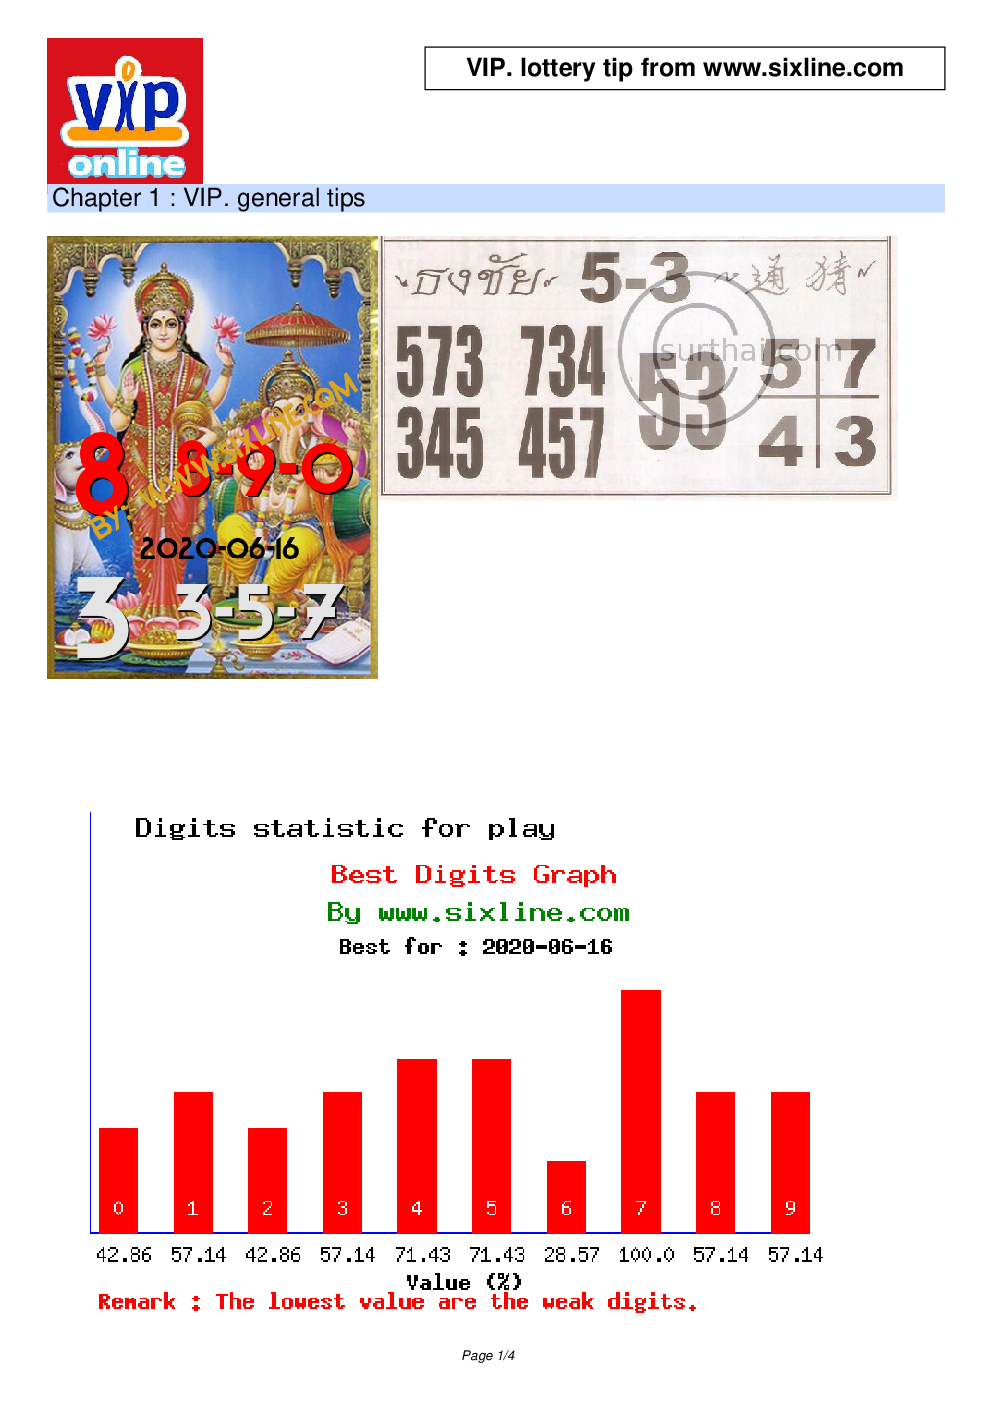
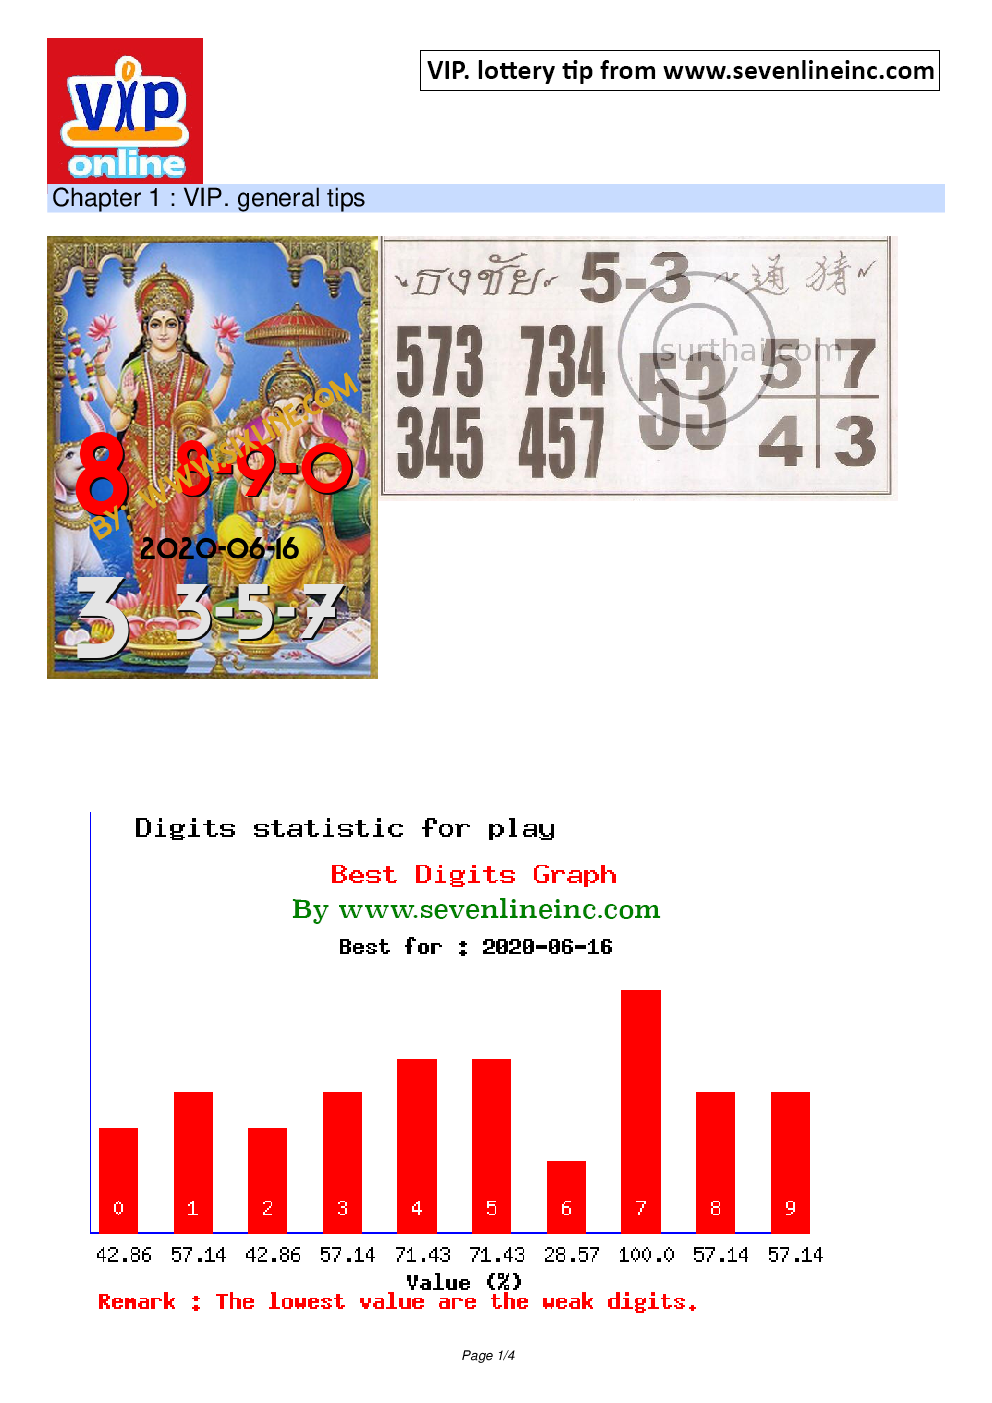
changes

Changed region(s): [[0.4062, 0.0306, 0.9688, 0.0613], [0.2812, 0.6436, 0.6562, 0.6743]]

diff --git a/templates/sevenline_main/services.html b/templates/sevenline_main/services.html
@@ -435,6 +435,11 @@
                         <td align="right" valign='top' width="10">&#160;</td>
                         <td width="564" align="left"><li class="desc_size">After 1st. register, You will get PASSWORD for Log-In on your E-mail and you will have procedure and details to be our membership step by step via responding E-mail.</td>
                         </tr>
+
+                        <tr>
+                           <td align="right" valign='top' width="10">&#160;</td>
+                           <td width="564" align="left"><li class="desc_size">Sixline and Sevenlineinc are essentially the same company, functioning under two different names but representing the same organization.</td>
+                           </tr>
                         <tr>
                            <td align="right" valign="top" width="10">&nbsp;</td>
                                        <td width="564" align="left"><li class="desc_size">Feel free to contact Sixline's staff by E-mail address: <a href="mailto:staff@sevenlineinc.com">staff@sevenlineinc.com</a> 24 Hrs.<br></li></td>

diff --git a/templates/puketsite/howtoplay.html b/templates/puketsite/howtoplay.html
@@ -28,6 +28,10 @@
                <p>
                   We aren't Banker but we are worldwide membership's represent who need to play ORIGINAL THAILAND LOTTERY.
                   Playing lotteries online is getting more and more popular nowadays. We'll tell you about the best online Thailand lottery site that works for many years and that is called reliable ones.
+                  <br>
+                  <br>
+                  Sixline and Sevenlineinc are essentially the same entity, functioning under two different names but representing the same organization.
+
                </p>
                <h2>TIME TO PLAY</h2>
                <p>

diff --git a/templates/sevenline_main/graph_tip.html b/templates/sevenline_main/graph_tip.html
@@ -8,7 +8,7 @@
             <div class="col-sm-3">
                <div id="content-desktop">
                   <div>
-                     <img src="{% static "image/image13.gif" %}" class="img-rounded" align="middle" alt="www.sevenlineinc.com" width="304" height="236"> 
+                     <img src="{% static "image/image13.jpg" %}" class="img-rounded" align="middle" alt="www.sevenlineinc.com" width="304" height="236"> 
                   </div>
                </div>
             </div>

diff --git a/templates/sevenline_main/preview_tip.html b/templates/sevenline_main/preview_tip.html
@@ -9,7 +9,7 @@
             <div class="col-sm-3">
                <div id="content-desktop">
                   <div>
-                     <img src="{% static "image/image13.gif" %}" class="img-rounded" align="middle" alt="www.sevenlineinc.com" width="304" height="236"> 
+                     <img src="{% static "image/image13.jpg" %}" class="img-rounded" align="middle" alt="www.sevenlineinc.com" width="304" height="236"> 
                   </div>
                </div>
             </div>
